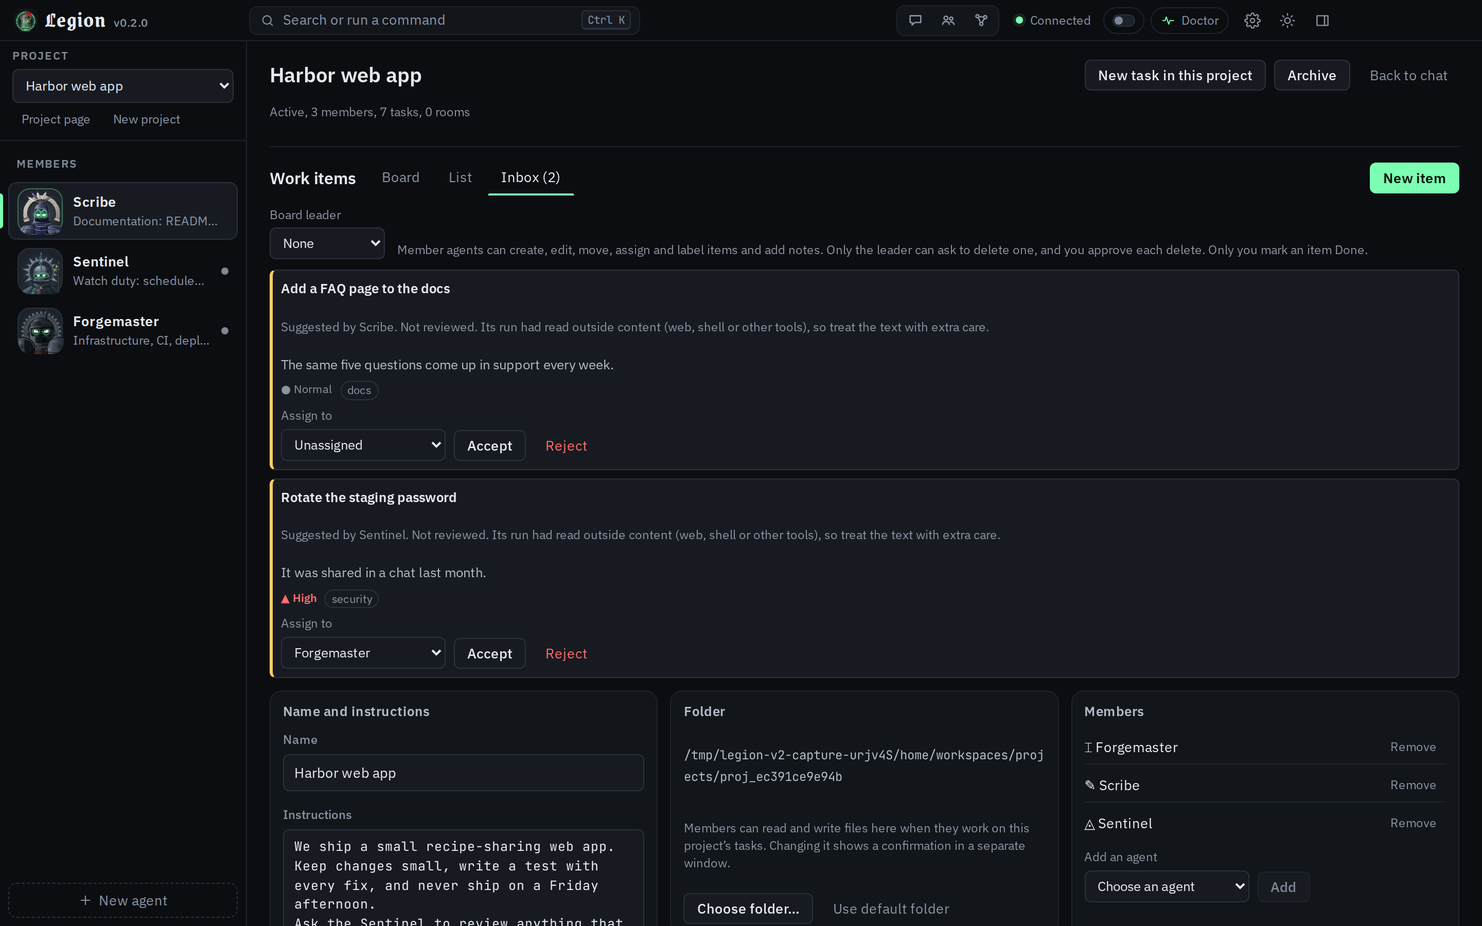
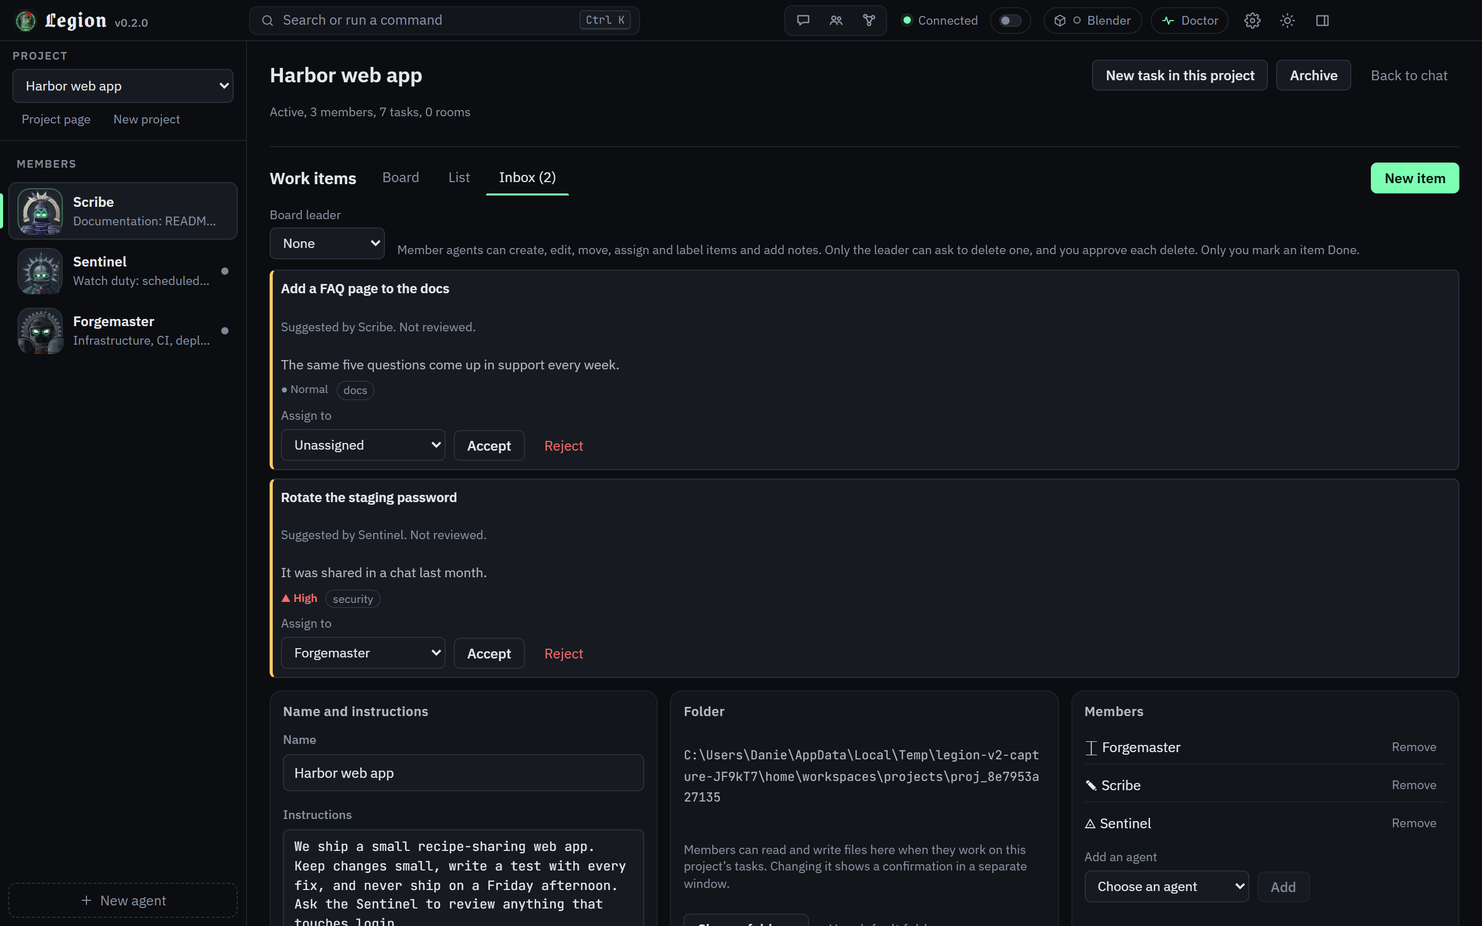
trailer v2: browser scene in (105 s cut); board recaptured from the merged tree incl. the delete-approval card; BRIEF/timeline/captions updated; render.mjs Windows url-fix; keyframes reviewed

diff --git a/docs/video-v2/trailer.html b/docs/video-v2/trailer.html
@@ -202,6 +202,8 @@ canvas,svg.full{position:absolute;left:0;top:0;width:1920px;height:1080px}
 
   <div id="relic" class="abs"></div>
   <div id="sub" class="abs c sub hide" style="top:772px">Legion 0.2.0. Now in beta.</div>
+  <div id="brow1" class="abs c sub hide" style="top:772px">Browse without a VM.</div>
+  <div id="brow2" class="abs c cap hide" style="top:848px">Runs with your rights. A VM stays isolated.</div>
 
   <!-- muster -->
   <div id="muster"></div>
@@ -227,8 +229,8 @@ canvas,svg.full{position:absolute;left:0;top:0;width:1920px;height:1080px}
 
   <!-- install, update, test -->
   <div id="routes" class="abs hide" style="left:0;top:0;width:1920px;height:1080px">
-    <div id="cardA" class="card hide" style="left:110px;top:300px;width:800px;height:330px"><div class="k" style="margin-bottom:18px">THE PACKAGE ROUTE</div><b id="rtA">No Node. No Git. No npm.</b></div>
-    <div id="cardB" class="card hide" style="left:970px;top:300px;width:640px;height:330px"><div class="k" style="margin-bottom:18px">THE SOURCE ROUTE</div><b id="rtB">Or from source: setup.cmd.</b></div>
+    <div id="cardA" class="card hide" style="left:110px;top:330px;width:800px;height:220px"><div class="k" style="margin-bottom:18px">THE PACKAGE ROUTE</div><b id="rtA">No Node. No Git. No npm.</b></div>
+    <div id="cardB" class="card hide" style="left:970px;top:330px;width:640px;height:220px"><div class="k" style="margin-bottom:18px">THE SOURCE ROUTE</div><b id="rtB">Or from source: setup.cmd.</b></div>
     <div id="chipA" class="abs chipw hide" style="left:110px;top:668px;width:800px">Built by script. Not yet run on Windows.</div>
   </div>
   <div id="loopw" class="abs hide" style="left:0;top:0;width:1920px;height:1080px">
@@ -349,7 +351,7 @@ const camTx = (c) => [FW / 2 - c.z * c.cx * FW, FH / 2 - c.z * c.cy * FH];
 const capEls = CAPS.map((c) => {
   const d = document.createElement('div'); d.className = 'hide ' + (c.slot === 'col' ? 'col cap' : 'abs');
   if (c.slot === 'col') { d.style.top = '262px'; d.innerHTML = c.text; $('cols').appendChild(d); }
-  return { c, d: c.slot === 'col' ? d : $({ cold1: 'l1', cold2: 'l2', sub: 'sub', mustcap: 'mustcap', termcap: 'termcap', digest: 'digestcap', routeA: 'rtA', routeB: 'rtB', loopcap: 'loopcap' }[c.slot]) };
+  return { c, d: c.slot === 'col' ? d : $({ cold1: 'l1', cold2: 'l2', sub: 'sub', brow1: 'brow1', brow2: 'brow2', mustcap: 'mustcap', termcap: 'termcap', digest: 'digestcap', routeA: 'rtA', routeB: 'rtB', loopcap: 'loopcap' }[c.slot]) };
 });
 const kickEls = {};
 for (const [id, name] of Object.entries(KICKER)) { const d = document.createElement('div'); d.className = 'col k hide'; d.style.top = '198px'; d.textContent = name; $('cols').appendChild(d); kickEls[id] = d; }
@@ -545,10 +547,10 @@ window.render = function (t) {
   if (t > T.term[0] - .2 && t < T.term[1] + .2) drawLog(t);
 
   // board digest card
-  const dv = vis(t, b(19), b(20)); show($('digestw'), dv, up(t, b(19), 14)); if (dv > 0) drawDigest(t, b(19, .3));
+  const dv = vis(t, b(18), b(19)); show($('digestw'), dv, up(t, b(18), 14)); if (dv > 0) drawDigest(t, b(18, .3));
   // install: routes, then update (a shot), then loopback + harness
-  const ro = vis(t, b(30), b(31)); show($('routes'), ro);
-  show($('cardA'), win(t, b(30, .1), b(30, .6), b(31) , b(31) + .1), up(t, b(30, .1), 18)); show($('cardB'), win(t, b(30, 1.2), b(30, 1.8), b(31), b(31) + .1), up(t, b(30, 1.2), 18));
+  const ro = vis(t, b(31), b(32)); show($('routes'), ro);
+  show($('cardA'), win(t, b(31, .1), b(31, .6), b(32) , b(32) + .1), up(t, b(31, .1), 18)); show($('cardB'), win(t, b(31, 1.2), b(31, 1.8), b(32), b(32) + .1), up(t, b(31, 1.2), 18));
   const lo = vis(t, b(32), b(33)); show($('loopw'), lo);
   if (lo > 0) drawHarness(t, b(32, .5));
 

diff --git a/docs/video-v2/BRIEF.md b/docs/video-v2/BRIEF.md
@@ -25,19 +25,20 @@
 | 4-7 | 10-17.5 | The muster | the 13 painted busts (as provided) rise on the beat, name under each; Zealot first | "Thirteen bots. Each with its own role." |
 | 7-10 | 17.5-25 | Approvals and the taint model | real app shot pushes in on an approval card (Allow/Deny), then the Library Inbox with an untrusted "pending" note | "You approve the risky calls." / "What the web returns is treated as untrusted." |
 | 10-11 | 25-27.5 | Rooms | real Rooms view, one room with bots and you | "Rooms: bots and you." |
-| 11-15 | 27.5-37.5 | **The Library and the Lattice (the memory layer)**, 4 bars | Library Inbox (a bot's note waiting, you accept or reject), then a slow push into the Lattice graph, then the scope switch: shared, private, one project | "A shared memory you can read." / "Bots propose. You accept or reject." / "Notes can belong to one project." |
-| 15-20 | 37.5-50 | **Projects as the context layer**, 5 bars (Variant A) or 4 bars (Variant B), see section 3a | Projects view (instructions, members, tasks, rooms), then the board (Variant A only), then the memory shots | see section 3a |
-| 20-24 | 50-60 | A VM per agent, and MCP | computer panel with VM preview (hard cut), then a terminal: `legion_list_agents`, `legion_vm`, `legion_run`, `legion_projects` | "Their own cloud computer, when you want one." / "Drive it from Claude Code or Cowork." |
-| 24-27 | 60-67.5 | BSV mode | BSV panel (read-only pack and wallet status), then the spend section and the Arm control; chain animation behind | "BSV mode. Off by default." / "A spend tool, behind your own confirmations." / chip: "Built against fakes. Not tried with real funds." |
-| 27-30 | 67.5-75 | Blender | mode chooser (This computer / Cloud VM / Live), then Settings "Get Blender" card, then the Sculptor busts (art as provided) | "Blender, with the Sculptor." / "Runs here first. Cloud VM or live Blender if you prefer." / chip: "Not yet tried on a real Blender." |
-| 30-33 | 75-82.5 | Install, update, loopback, harness | two route cards (package: no Node, no Git; source: `setup.cmd`), Update panel shot, `127.0.0.1` card, harness terminal | "Two ways in." / "Updates only when you click." / "Listens on this computer only." / "Fake model, fake wallet, fake Blender, to test it." chips on package and updater: "Built, not yet run on Windows" |
-| 33-37 | 82.5-92.5 | NEXT (planned for 0.2.1) | five plain text cards, no UI, a thin rule and the label "NEXT · planned for 0.2.1" | "More model providers." / "A project board." / "A smaller package." / "More browser engines, optional." / "Real-wallet BSV checks." |
-| 37-40 | 92.5-100 | End card | wordmark LEGION forges once, Relic rises | "LEGION" / "0.2.0 · Beta" / "Built and tested. Some parts not yet tried on real services." / sigil |
+| 10-13 | 25-32.5 | **The Library and the Lattice (the memory layer)**, 3 bars | Library Inbox (a bot's note waiting, you accept or reject), then a slow push into the Lattice graph | "A shared memory you can read." / "Bots propose. You accept or reject." |
+| 13-19 | 32.5-47.5 | **Projects and the board (the context layer)**, 6 bars | Projects view (instructions, members, tasks, rooms), then the board: columns, a "Not reviewed" item, the guards, the project-note offer, the real board digest | "Projects: tasks, rooms, notes, agents." / "Agents work the board with you." / "You mark Done. You approve deletes." / "Save what you learned." / "Runs start with the board." / chip: "Built and tested. Not yet tried on a real PC." |
+| 19-23 | 47.5-57.5 | A VM per agent, and MCP | computer panel with VM preview (hard cut), then a terminal: `legion_list_agents`, `legion_vm`, `legion_run`, `legion_projects` | "Their own cloud computer, when you want one." / "Drive it from Claude Code or Cowork." |
+| 23-26 | 57.5-65 | BSV mode | BSV panel (read-only pack and wallet status), then the spend section and the Arm control; chain animation behind | "BSV mode. Off by default." / "A spend tool, behind your own confirmations." / chip: "Built against fakes. Not tried with real funds." |
+| 26-29 | 65-72.5 | Blender | mode chooser (This computer / Cloud VM / Live), then Settings "Get Blender" card, then the Sculptor busts (art as provided) | "Blender, with the Sculptor. It runs here first." / "One pinned Blender, after you say yes." / chip: "Not yet tried on a real Blender." |
+| 29-31 | 72.5-77.5 | **Browse without a VM** (shown: SHIPS) | the real Settings browser card (on, Edge or Chrome found, "Open test page") | "Browse without a VM." / "Runs with your rights. A VM stays isolated." / chip: "Built and tested. Not yet tried on a real PC." |
+| 31-33 | 77.5-82.5 | Install, update, loopback, harness | two route cards (package: no Node, no Git; source: `setup.cmd`), Update panel shot and the loopback/harness line share the last bar | "No Node. No Git. No npm." / "Or from source: setup.cmd." / "Updates only when you click." / "Listens here only. Testable with fakes." chips on package and updater: "Built, not yet run on Windows" |
+| 33-38 | 82.5-95 | NEXT (planned for 0.2.1) | six plain text cards, no UI, a thin rule and the label "NEXT · planned for 0.2.1" | "More model providers." / "A knowledge-graph audit button." / "The Sentinel scheduler." / "A smaller package." / "More browser engines, optional." / "Real-wallet BSV checks." |
+| 38-42 | 95-105 | End card | wordmark LEGION forges once, Relic rises | "LEGION" / "0.2.0 · Beta" / "Built and tested. Some parts not yet tried on real services." / sigil |
 
-Conditional scene: **Browse without a VM** (2 bars, between Blender and Install). Rendered only if, at render time, the facts file says SHIPPED for the browser tool. Today it says IN PROGRESS, so it is out, and the timeline has a ready fallback cut (Install starts 2 bars earlier; the total stays 100 s by giving Blender and the harness 1 extra bar). If it ever ships, the honest limit goes on screen: "A local browser runs with your rights. Only a cloud VM is isolated."
+The browser scene is IN (the facts file says SHIPPED since 2026-10-03). The rooms scene was cut to pay for it; the honest local-rights limit stays on screen for the whole scene.
 
-## 3a. Projects as the context layer, and the board (owner addition, 2026-10-02)
-The owner asked for the project board and the project and knowledge-graph layer to be explained and shown prominently. What I verified in the tree (branch `origin/claude/project-board`, commits 3a19c21, e0b44bb, 06efceb): all of it exists and is tested against fakes. What I also found, and the owner's note does not say: **that branch is not merged into `integration/v1`; the board sits behind `experimental.projectBoard` in `config.json`, default off (only the literal `true` turns it on; no route or UI writes it; `test/project-board-flag.test.ts`); nothing has run on Windows (`claude/tracker-pc-checks-board.md`); and `claude/release-facts-0.2.0.md` still says "Project board: NOT in 0.2.0, may appear only as next".** The facts file outranks the chat, so the trailer cannot call the board "shipped" until the file changes. Two ready variants, picked at render time from the facts file:
+## 3a. Projects as the context layer, and the board (owner addition, 2026-10-02; resolved)
+The project board merged into `integration/v1` on 2026-10-03 (merge 2e2d611 plus the approvals fix f726780) and the facts file says SHIPS, so the shipped cut uses Variant A: the board shown in 0.2.0 with the chip "Built and tested. Not yet tried on a real PC." Board shots are re-captured from the merged tree, including the delete-approval card that the first cut could not capture (the approvals bug blocked it). Two ready variants, kept for the record:
 
 - **Variant A: the facts file lists the board as shipping in 0.2.0 (even as experimental).** Bars 15-20. 15-16.5 Projects view (instructions, members, tasks, rooms; shipped). 16.5-18.5 the board, real UI from the branch build: columns, a card with "Not reviewed", the board header with the leader selector, an approval card for a delete. 18.5-20 memory: an episode and a project note in the Library under the project scope, and the board digest shown as the first lines a new run receives (a real captured prompt block, trimmed). Chip on the board shots: "Experimental. Off by default." (or whatever the facts file then says).
 - **Variant B: facts unchanged (default today).** Bars 15-19. 15-16.5 Projects view (shipped). 16.5-19 project-scoped notes in the Library (shipped per the facts file: "notes can be scoped to a project"; real shots of a note with the project scope). The board, episodes and digest move to the NEXT block as text cards (no UI), worded as planned, see F30-F31. The bar saved goes to NEXT (5 bars).
@@ -83,25 +84,25 @@ Status words from the facts file: **SHIPS** (built, merged, tested), **BUILT-NOT
 | F18 | Update panel (Settings, About) | "Updates only when you click." + chip "Built, not yet tried." | in-app updater: checks releases, downloads after click, installs when idle, rolls back, signed manifest; OFF until a key is published and the repo is public | `ui/src/components/UpdatePanel.tsx`; `src/core/updater/`; `test/updater-*.test.ts` | BUILT-NOT-TRIED | on-screen "off until the owner publishes a key" is NOT needed; chip says not tried |
 | F19 | `127.0.0.1` card | "Listens on this computer only." | loopback-only core: Host, address, Origin checks | `src/core/net-guard.ts`; `test/net-guard.test.ts`, `net-guard-source.test.ts`; facts | SHIPS | "Legion's own code listens ..." in fine print; not "cannot be reached" |
 | F20 | Harness terminal | "Fake model, fake wallet, fake Blender, to test it." | agent test harness | `scripts/harness/`; `docs/TESTING.md`; `test/harness-smoke.test.ts` | SHIPS | the terminal shows real `npm run harness` output captured from a run, trimmed, never retyped |
-| F21 | Conditional: Browse without a VM | (only if SHIPPED) "Browse without a VM." + "A local browser runs with your rights." | optional browser tool, off by default | `src/core/browser/`; `test/browser-tripwire.test.ts`; facts: IN PROGRESS | IN PROGRESS (out today) | not rendered unless the facts file says SHIPPED |
+| F21 | Browse without a VM (shown) | "Browse without a VM." / "Runs with your rights. A VM stays isolated." + chip "Built and tested. Not yet tried on a real PC." | optional browser tool, off by default, SHIPS | `src/core/browser/`; `test/browser-tripwire.test.ts`; facts: SHIPS (2026-10-03) | SHIPS, built and tested, not tried on a real PC | honest limit on screen the whole scene |
 | F22 | NEXT header | "NEXT · planned for 0.2.1" | plan | facts "0.2.1 PLAN" | PLANNED | no dates |
 | F23 | NEXT card 1 | "More model providers." | OpenAI, Codex, OpenCode, OpenRouter, custom and local endpoints | facts; `ui/src/providers/`, `src/core/providers/` (built, tested against fakes, switched OFF) | PLANNED | **no provider names on screen** (a name would read as "works with X"); sub-line "Claude is the full path today." |
-| F24 | NEXT card 2 | "A project board." (Variant A: dropped from NEXT, it was shown above; Variant B: replaced by the longer F39 card) | work items, columns, due dates | facts ("in development, after 0.2.0") | PLANNED | none |
+| F24 | NEXT card 2 | "A project board." (dropped from NEXT: shown in 0.2.0 above) | work items, columns, due dates | facts ("in development, after 0.2.0") | PLANNED | none |
 | F25 | NEXT card 3 | "A smaller package." | uses the user's own Claude Code | facts | PLANNED | none |
 | F26 | NEXT card 4 | "More browser engines, optional." | extra engines | facts ("0.2.1 PLAN") | PLANNED | no engine named |
 | F27 | NEXT card 5 | "Real-wallet BSV checks." | BSV real-wallet verification after the owner's checks | facts; `claude/tracker-pc-checks.md` | PLANNED | none |
 | F28 | End card | "LEGION" / "0.2.0 · Beta" / "Built and tested. Some parts not yet tried on real services." | label | facts header | SHIPS (label) | no URL, no "open source" |
-| F29 | Board (Variant A) | "Agents work the board with you." | agents create, edit, move, reorder, assign or claim, label, add notes on a project's work items (tools `list`, `get`, `propose`, `create`, `update` in the in-process server `legion_board`) | branch `claude/project-board`: `src/core/projects/board/tools.ts`, `store.ts`; `ui/src/projects/board/BoardPanel.tsx`; `test/project-board-tools.test.ts`, `project-board-store.test.ts`, `project-board-http.test.ts` | BUILT on a branch, EXPERIMENTAL, OFF by default, not merged, never run on Windows | chip "Experimental. Off by default."; only in Variant A |
+| F29 | Board (shown) | "Agents work the board with you." | agents create, edit, move, reorder, assign or claim, label, add notes on a project's work items (tools `list`, `get`, `propose`, `create`, `update` in the in-process server `legion_board`) | merged: `src/core/projects/board/tools.ts`, `store.ts`; `ui/src/projects/board/BoardPanel.tsx`; `test/project-board-tools.test.ts`, `project-board-store.test.ts`, `project-board-http.test.ts` | SHIPS; built and tested (gate 2380/2333, 2 load flakes pass alone), not tried on a real PC | chip "Built and tested. Not yet tried on a real PC." |
 | F30 | Guards card / card badge | "Agent-written items say "Not reviewed" until you review them." | items an agent creates or edits get trust `untrusted`; the card shows "Not reviewed"; a run on one keeps asking until the owner marks it reviewed | `BoardPanel.tsx` ("Not reviewed"); `prompt.ts` (`reviewed="no"`); `test/project-board-run.test.ts`. Button label ("Mark as reviewed" per the owner; the plan says "Mark reviewed") re-read from the UI at capture | same as F29 | quote the label exactly as the UI shows it |
 | F31 | Guards, three short lines | "Only you mark an item Done." / "Items assigned to you take notes only." / "Nothing an agent does starts a run." | owner-only Done; owner-assigned items notes only; creating or moving an item never starts a run | `tools.ts` descriptions ("never done", "take notes only"); `prompt.ts` BOARD_PREAMBLE ("never starts a run"); `project-board-tools.test.ts` | same as F29 | control wording |
 | F32 | Guards, taint | "A run that read outside content cannot assign or delete." | tainted run: assign refused with 403, delete refused | `store.ts` (`botAssignee`, 403 text; tainted delete check); `test/project-board-tools.test.ts` | same as F29 | "Legion's own code refuses ..." in fine print |
 | F33 | Board header, leader selector, approval card | "Only the board leader can ask to delete. You approve every delete." | per-project leader (default none); the delete tool exists only for the leader; each delete raises an approval card; decline deletes nothing | `BoardPanel.tsx` (`bd-leader`, `setLeader`); `tools.ts` (`del` only if `isLeader()`; `askOwner`); `claude/plan-project-board.md` | same as F29 | "default: none" is true and may be shown |
 | F34 | Terminal or card | "Token clients read the board. They cannot change it." | MCP token clients get read-only `legion_board_read` | `src/core/projects/board/mcp.ts`; `test/project-board-http.test.ts` (C2: no route on the client list) | same as F29 | the owner's offer of "a different safeguard" is NOT shown |
-| F35 | Library, project scope | "A project run leaves its episode in the project's memory." | a run that belonged to a project records its automatic episode into the project Library scope; other projects cannot see it | branch commit e0b44bb: `src/core/kg/graph.ts` (`recordEpisode`, `projectId`); `test/project-board-kg.test.ts` | BUILT on a branch, not merged (not flag-gated, but only in this branch) | the "other projects cannot" part is shown only if `project-board-kg.test.ts` proves it (read at capture); otherwise the phrase is cut |
+| F35 | Library, project scope | "A project run leaves its episode in the project's memory." | a run that belonged to a project records its automatic episode into the project Library scope; other projects cannot see it | merged: `src/core/kg/graph.ts` (`recordEpisode`, `projectId`); `test/project-board-kg.test.ts` | SHIPS | shown only if `project-board-kg.test.ts` proves it (read at capture) |
 | F36 | Board digest block | "Each project run starts with a short board digest." | the run prompt gets counts per column, what is assigned to this agent, and what others have in progress | `prompt.ts` (`boardDigest`); `board/index.ts` (`preamble`); `test/project-board-kg.test.ts` | same as F29 (digest exists only with the board on) | the on-screen block is a real captured one from a fake run, trimmed |
 | F37 | Library, project note | "Lasting findings become project notes. The item names the note." | agents are told to save lasting findings with `kg_capture` scope `project` and to put the note id on the item | `prompt.ts` (BOARD_PREAMBLE, last-but-one line); notes scoped to a project exist in 0.2.0 per the facts file | the scoped note SHIPS; the instruction to name the id on the item is BUILT on the branch (needs the board) | say "agents are told", not "always do" |
 | F38 | Library and Lattice, scope switch | "Notes can belong to one project." | project-scoped notes | facts ("notes can be scoped to a project"); `src/shared/projects.ts` (`projectScope`); `test/projects-kg.test.ts` | SHIPS | none |
-| F39 | Variant B only, NEXT card | "The project board: agents work it with you." + sub-line "Planned for 0.2.1." | the board and the project context additions | facts and branch | PLANNED | text only; no board UI shown |
+| F39 | Variant B only (record) | "The project board: agents work it with you." + sub-line "Planned for 0.2.1." | the board and the project context additions | facts and branch | PLANNED (unused: Variant A shipped) | text only; no board UI shown |
 
 
 Coverage check against the facts list (F29-F39 add the board and the context layer, see 3a): bots, approvals, taint, rooms, Library, Lattice, VM, MCP (F03-F09); Projects (F10); install both routes (F16-F17); updater (F18); loopback (F19); BSV read-only and spend (F11-F12); Blender local, VM, live, managed download, Sculptor (F13-F15); harness (F20); browser conditional (F21); NEXT (F22-F27). Secrets scrubbing is shown only in the loopback fine print, not as its own scene. The bot-instruction audit is excluded on purpose.

diff --git a/docs/video-v2/shots/MANIFEST.md b/docs/video-v2/shots/MANIFEST.md
@@ -46,4 +46,21 @@ Board shots come from origin/claude/project-board (a78b362) built in a scratch g
 | project-memory-item.png | Item dialog for "Add a health check endpoint": Project notes: "Health checks answer fast and say the version" (linked), button "Save what we learned...", Linked work, Activity "Linked a project note". | agent run: kg_capture scope "project" then board `update`; the board linked the note automatically at run end |
 | board-digest.txt | The real `<legion-board-digest>` block (10 lines, unedited) from the system prompt of a Scribe project run, read from the fake model's log (a patched copy of the harness model records the system prompt). | engine's own preamble |
 
-Could NOT capture: board-delete-approval.png. In this tree a run that calls any legion_board tool is marked as having touched outside content (mcp__legion_board__* is not on the Legion-tool list in src/core/approvals.ts, so engine taint treats it as an external tool). The delete tool then answers "Error: This run touched outside content (web, shell or external tools), so it may not delete items. Ask the owner." and no approval card is created; the same cause makes `create` with an assignee fail ("may not assign"), so the agents' items were assigned by the owner. Looks like a bug on the board branch, not a capture problem.
+Could NOT capture at first: board-delete-approval (see Update 3).
+
+
+## Update 3: recapture from integration/v1 (the board merged + the approvals fix)
+
+All board shots, the Settings shots and the BSV pair re-captured 2026-10-03 from `integration/v1` (board merged 2e2d611, approvals fix f726780) built in a scratch worktree, config `{}` (the board is ON by default in 0.2.0; no experimental switch). Same camera, same 1440x900 @2x dark, same fake model/wallet/Blender.
+
+| File | What it shows | Seeded how |
+|---|---|---|
+| board.png, board-inbox.png, board-guards.png, board-guards-dialog.png, project-memory.png, project-memory-item.png | same states as Update 2, now from the merged tree | same routes |
+| board-delete-card.png | **Now captured**: the delete approval card. Sentinel asks to delete "Translate the onboarding emails"; the owner card is PENDING (Allow/Deny). The approvals fix makes the board tools Legion tools, so the delete reaches the card instead of the taint refusal. Card left pending for the shot, then declined; the tool answered "The owner did not approve this." | scripted `legion_board delete` during a Sentinel run; poller stopped before the shot |
+| board-digest.txt | the same real `<legion-board-digest>` block (10 lines, unedited) from the merged tree | engine preamble, fake-model log |
+| browser.png | Settings > About > Browser card, toggle ON (enabled through the real POST /api/browser/config), detected engine, "Open test page" button | config route + real core probe of the PC's Edge/Chrome |
+| blender-get.png | re-captured on Windows: the card now shows the real Windows state (Get button enabled, pinned size/version) instead of the Linux "only available on Windows" state | bridge enabled via config |
+| update-panel.png | re-captured from the merged tree | none |
+| bsv-status.png / bsv-spend.png | re-captured; packaged knowledge notes version 8 | as before |
+
+The "capture.mjs browser" block and "board-capture.mjs" delete-card block are the script changes behind these (in this branch's docs/video-v2/capture/).
